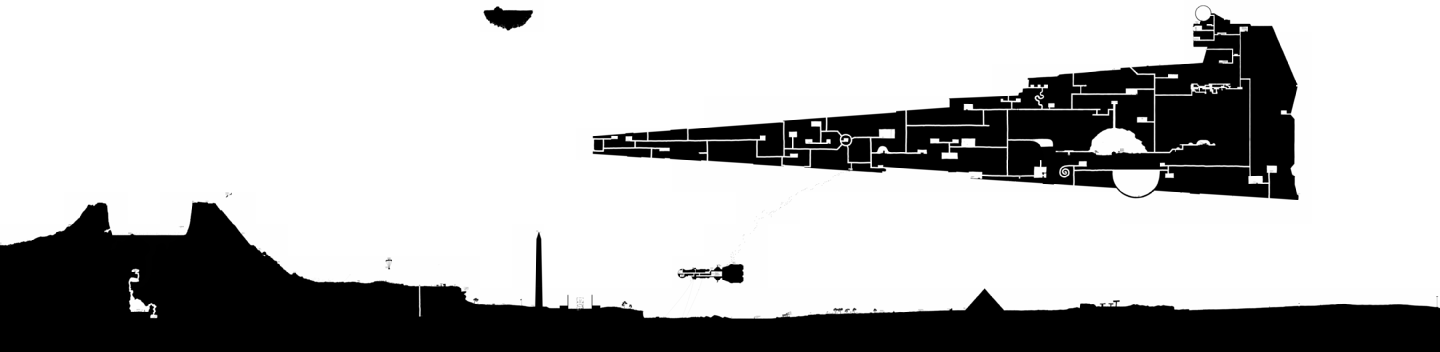
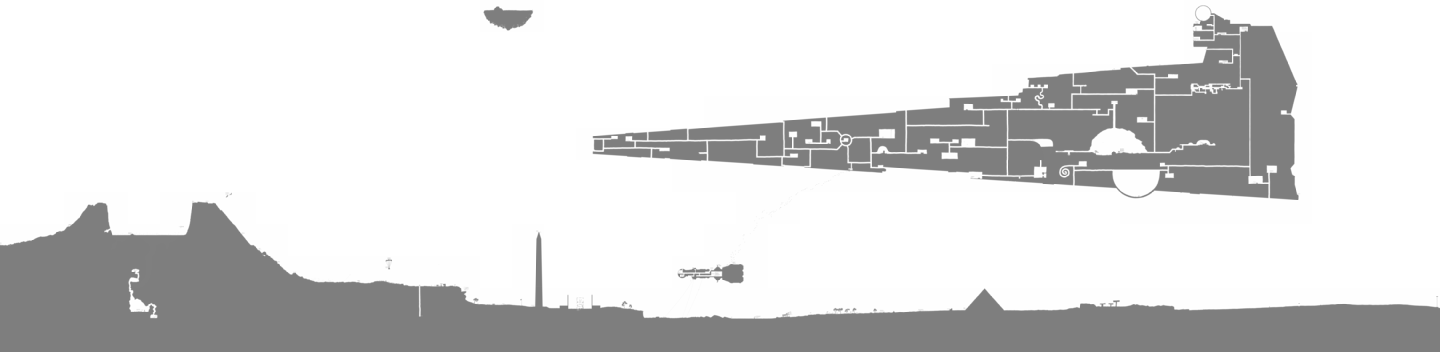
Regenerate map texture

diff --git a/src/game.cc b/src/game.cc
@@ -53,6 +53,7 @@ Game::Game(SDL2pp::Renderer& renderer)
 	  arrowkeys_message_(renderer_, font_18_.RenderText_Blended("use the arrow keys to move, esc/q to quit", SDL_Color{ 255, 255, 255, 192 })),
 	  playarea_message_(renderer_, font_40_.RenderText_Blended("RETURN TO THE PLAY AREA", SDL_Color{ 255, 0, 0, 255 } )),
 	  tile_cache_(renderer) {
+	minimap_texture_.SetAlphaMod(192);
 }
 
 Game::~Game() {
